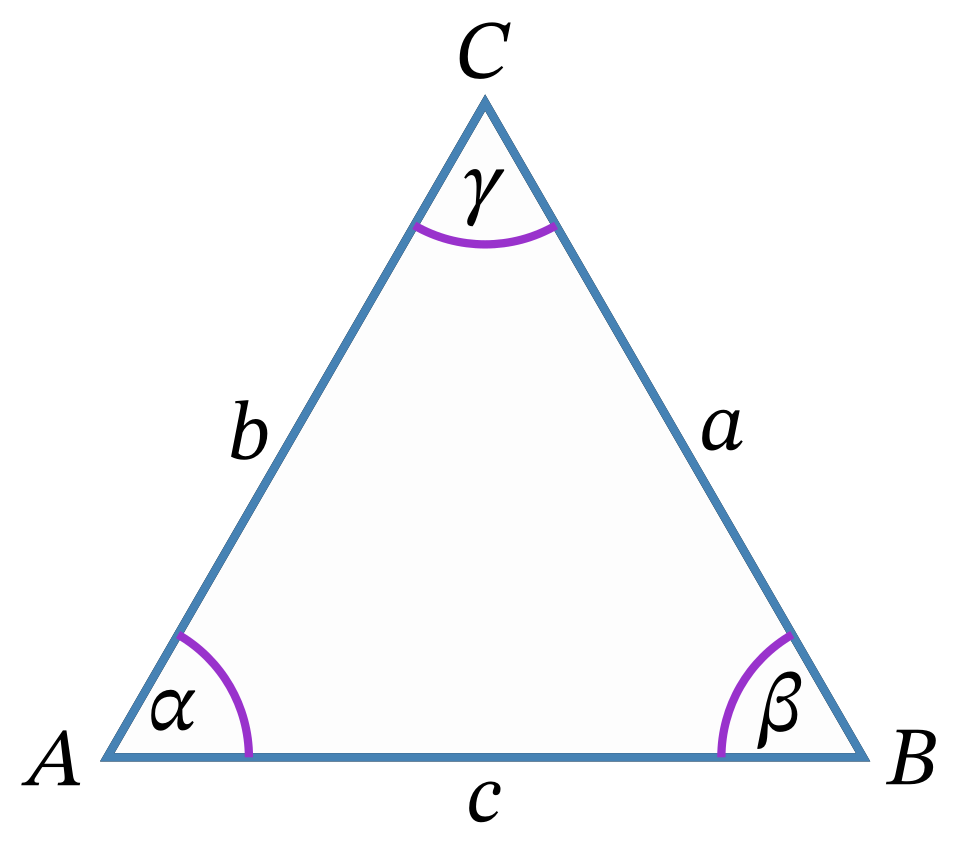
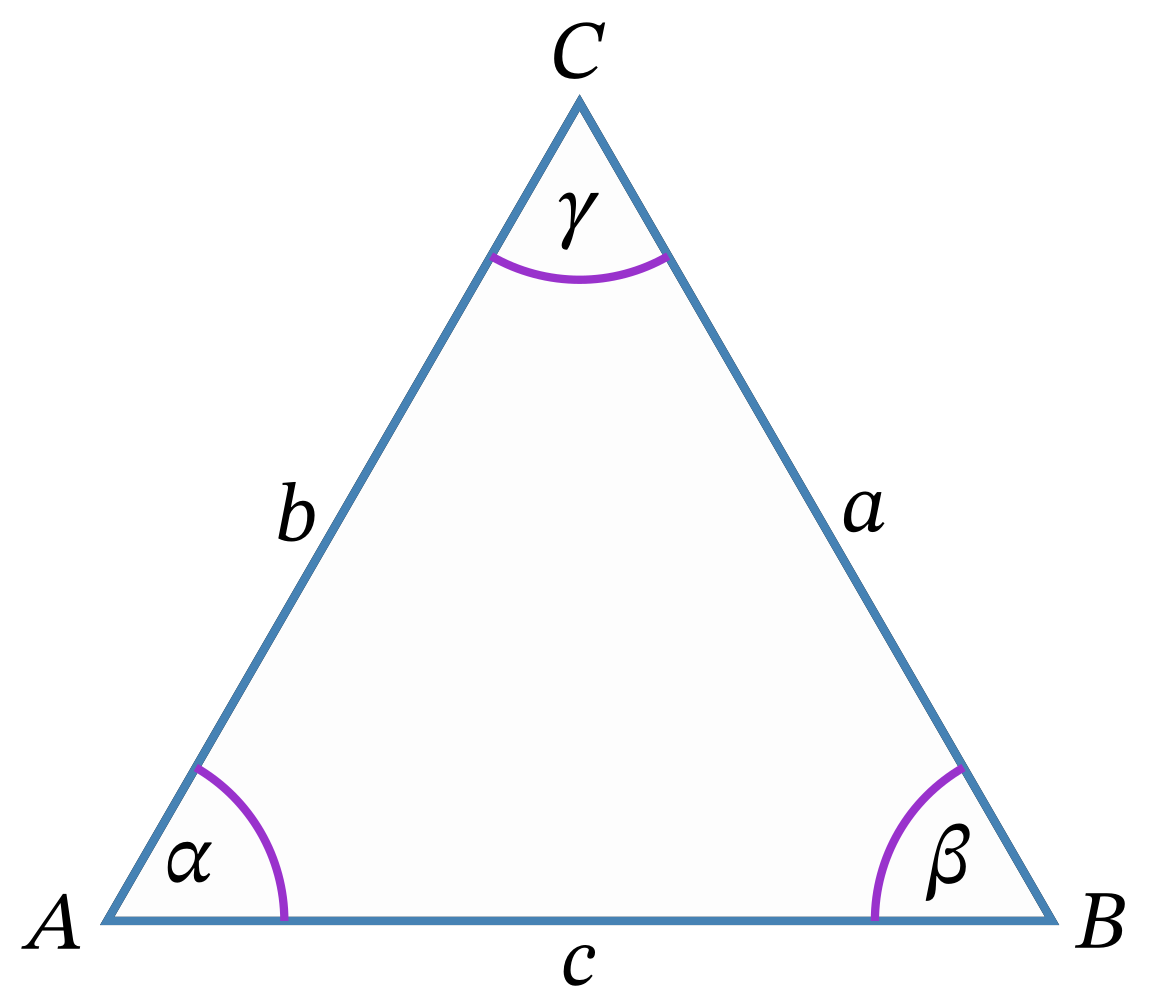
Updated website content

Changed region(s): [[0.0, 0.0, 0.9969, 0.9846]]

diff --git a/theme/swanlotus/static/js/mathjax-config.js b/theme/swanlotus/static/js/mathjax-config.js
@@ -1,7 +1,7 @@
 window.MathJax = {
     chtml: {
-        scale: 0.91 // Looks nice with Noto Serif and STIX2
-        // matchFontHeight: true // A smidgen too large
+        scale: 0.91 // Hand-tweaked for Noto Serif and STIX2
+        // matchFontHeight: true // A smidgen too large?
     },
     output: {
         font: 'mathjax-stix2' // Needs MatJax 4 and above

diff --git a/content/blogs/radians/radians.md b/content/blogs/radians/radians.md
@@ -13,13 +13,15 @@ The transition from degrees to radians is often the most traumatic mathematical 
 
 ## What is an angle?
 
-We first came across the idea of an _angle_ when we studied geometry in elementary or primary school. We then encountered _triangles_, which are closed figures with three straight sides and three enclosed angles. An _equilateral triangle_ is particularly symmetric, with three equal sides and three equal angles, as shown in @fig:equilateral.
+For most of us, the idea of an _angle_ first arose when we studied geometry in elementary or primary school. We then encountered _triangles_, which are closed figures with three straight sides and three enclosed angles. An _equilateral triangle_ is particularly symmetric, with three equal sides and three equal angles, as shown in @fig:equilateral.
 
-![An equilateral triangle is one in which the three sides are equal. The points at which the lines meet to form the triangle are called _vertices_ (singular _vertex_). By convention, vertices are labelled with uppercase letters like $A$, $B$, and $C$. The lengths of the sides opposite the vertices are assigned the lowercase labels $a$, $b$, and $c$ respectively. The angles are here labelled $\alpha$, $\beta$, and $\gamma$. In this triangle, $a = b = c$, by definition, and by symmetry, $\alpha = \beta = \gamma$.]({attach}images/equilateral.png){#fig:equilateral width=75% .modal-target}
+![An equilateral triangle is one in which the three sides and three angles are equal. ]({attach}images/equilateral.png){#fig:equilateral width=75% .modal-target}
+
+The point at which a line meets another line is called a _vertex_, which has the sense of a ["turning point"](https://www.etymonline.com/search?q=vertex). By convention, vertices (plural of vertex) are labelled with uppercase letters like $A$, $B$, and $C$. The lengths of the sides opposite the vertices are assigned the lowercase labels $a$, $b$, and $c$ respectively. The angles have been  labelled with the Greek letters $\alpha$, $\beta$, and $\gamma$. For all equilateral triangles, $a = b = c$, by definition, and by symmetry, $\alpha = \beta = \gamma$.
 
 ## Degrees
 
-When we started on geometry, we would proudly trot out our set of mathematical instruments, which would include a pair of compasses, a protractor, one or two set squares, and a ruler or straight edge. Of these, the protractor---that plastic semi-circle marked out in _degrees_---was the proud badge that proclaimed that we had left behind arithmetic and progressed onto geometry.
+On encountering geometry, we very likely proudly trotted out our set of mathematical instruments, which would include a pair of compasses, a protractor, one or two set squares, and a ruler or straight edge. Of these, the protractor---that plastic semi-circle marked out in _degrees_---was the proud badge that proclaimed that we had left behind arithmetic and progressed onto geometry.
 
 After we had learned to construct an equilateral triangle, using only compasses and a straight edge---_without measurement_ by ruler---we would take out the protractor to verify that each angle of an equilateral triangle was indeed 60°. That small circle ° at the top---the superscript---was called the _degree sign_, and we could then jubilantly celebrate our first rite of passage into geometry and mathematical symbols.
 
@@ -35,7 +37,7 @@ But beyond the approximation of a solar year, and the convenience of ready divis
 
 ## From triangles to circles
 
-What is the root concept behind the idea of an angle? Harking back to the equilateral triangle, when one line _changes direction_ by sixty degrees, we get the second line. These two lines form the angle. Change of direction may also be called _turning_. And when something turns, we may also say that it _rotates_.
+What is the root concept behind the idea of an angle? Harking back to etymology of the word vertex---and applying it to the equilateral triangle---when one line _changes direction_ by sixty degrees, we get the second line. These two lines form the angle. Change of direction may also be called _turning_ or _rotation_.
 
 The quintessential two-dimensional geometric figure that is associated with rotation is of course the _circle_. It is the most simple and symmetrical two-dimensional figure we can construct. It is the path or _locus_ traced out by a point that remains the _same_ distance from a fixed point called the _centre_. When a protractor is centred on the centre of a circle, we can measure out degrees on the circumference of the circle. So far so good. But what about that magic number 360? Well, we are about to exorcise it now. \emojifont :wink: \normalfont
 
@@ -45,7 +47,7 @@ One traumatic transition for the student of elementary mathematics is when he or
 
 ### Using circles to measure angles
 
-Because the idea of an angle is related to rotation, it seems natural that we should define angles using the circle as a basis, rather the triangles that we encountered at first.
+Because the idea of an angle is related to rotation, it seems natural that we should define angles using the circle as a basis, rather than the triangles that we encountered at first.
 
 It is a fact that the length of a circle, or its _perimeter_, or its _circumference_, $C$, is always related to its radius, $r$, through the formula $C = 2\pi r$.
 
